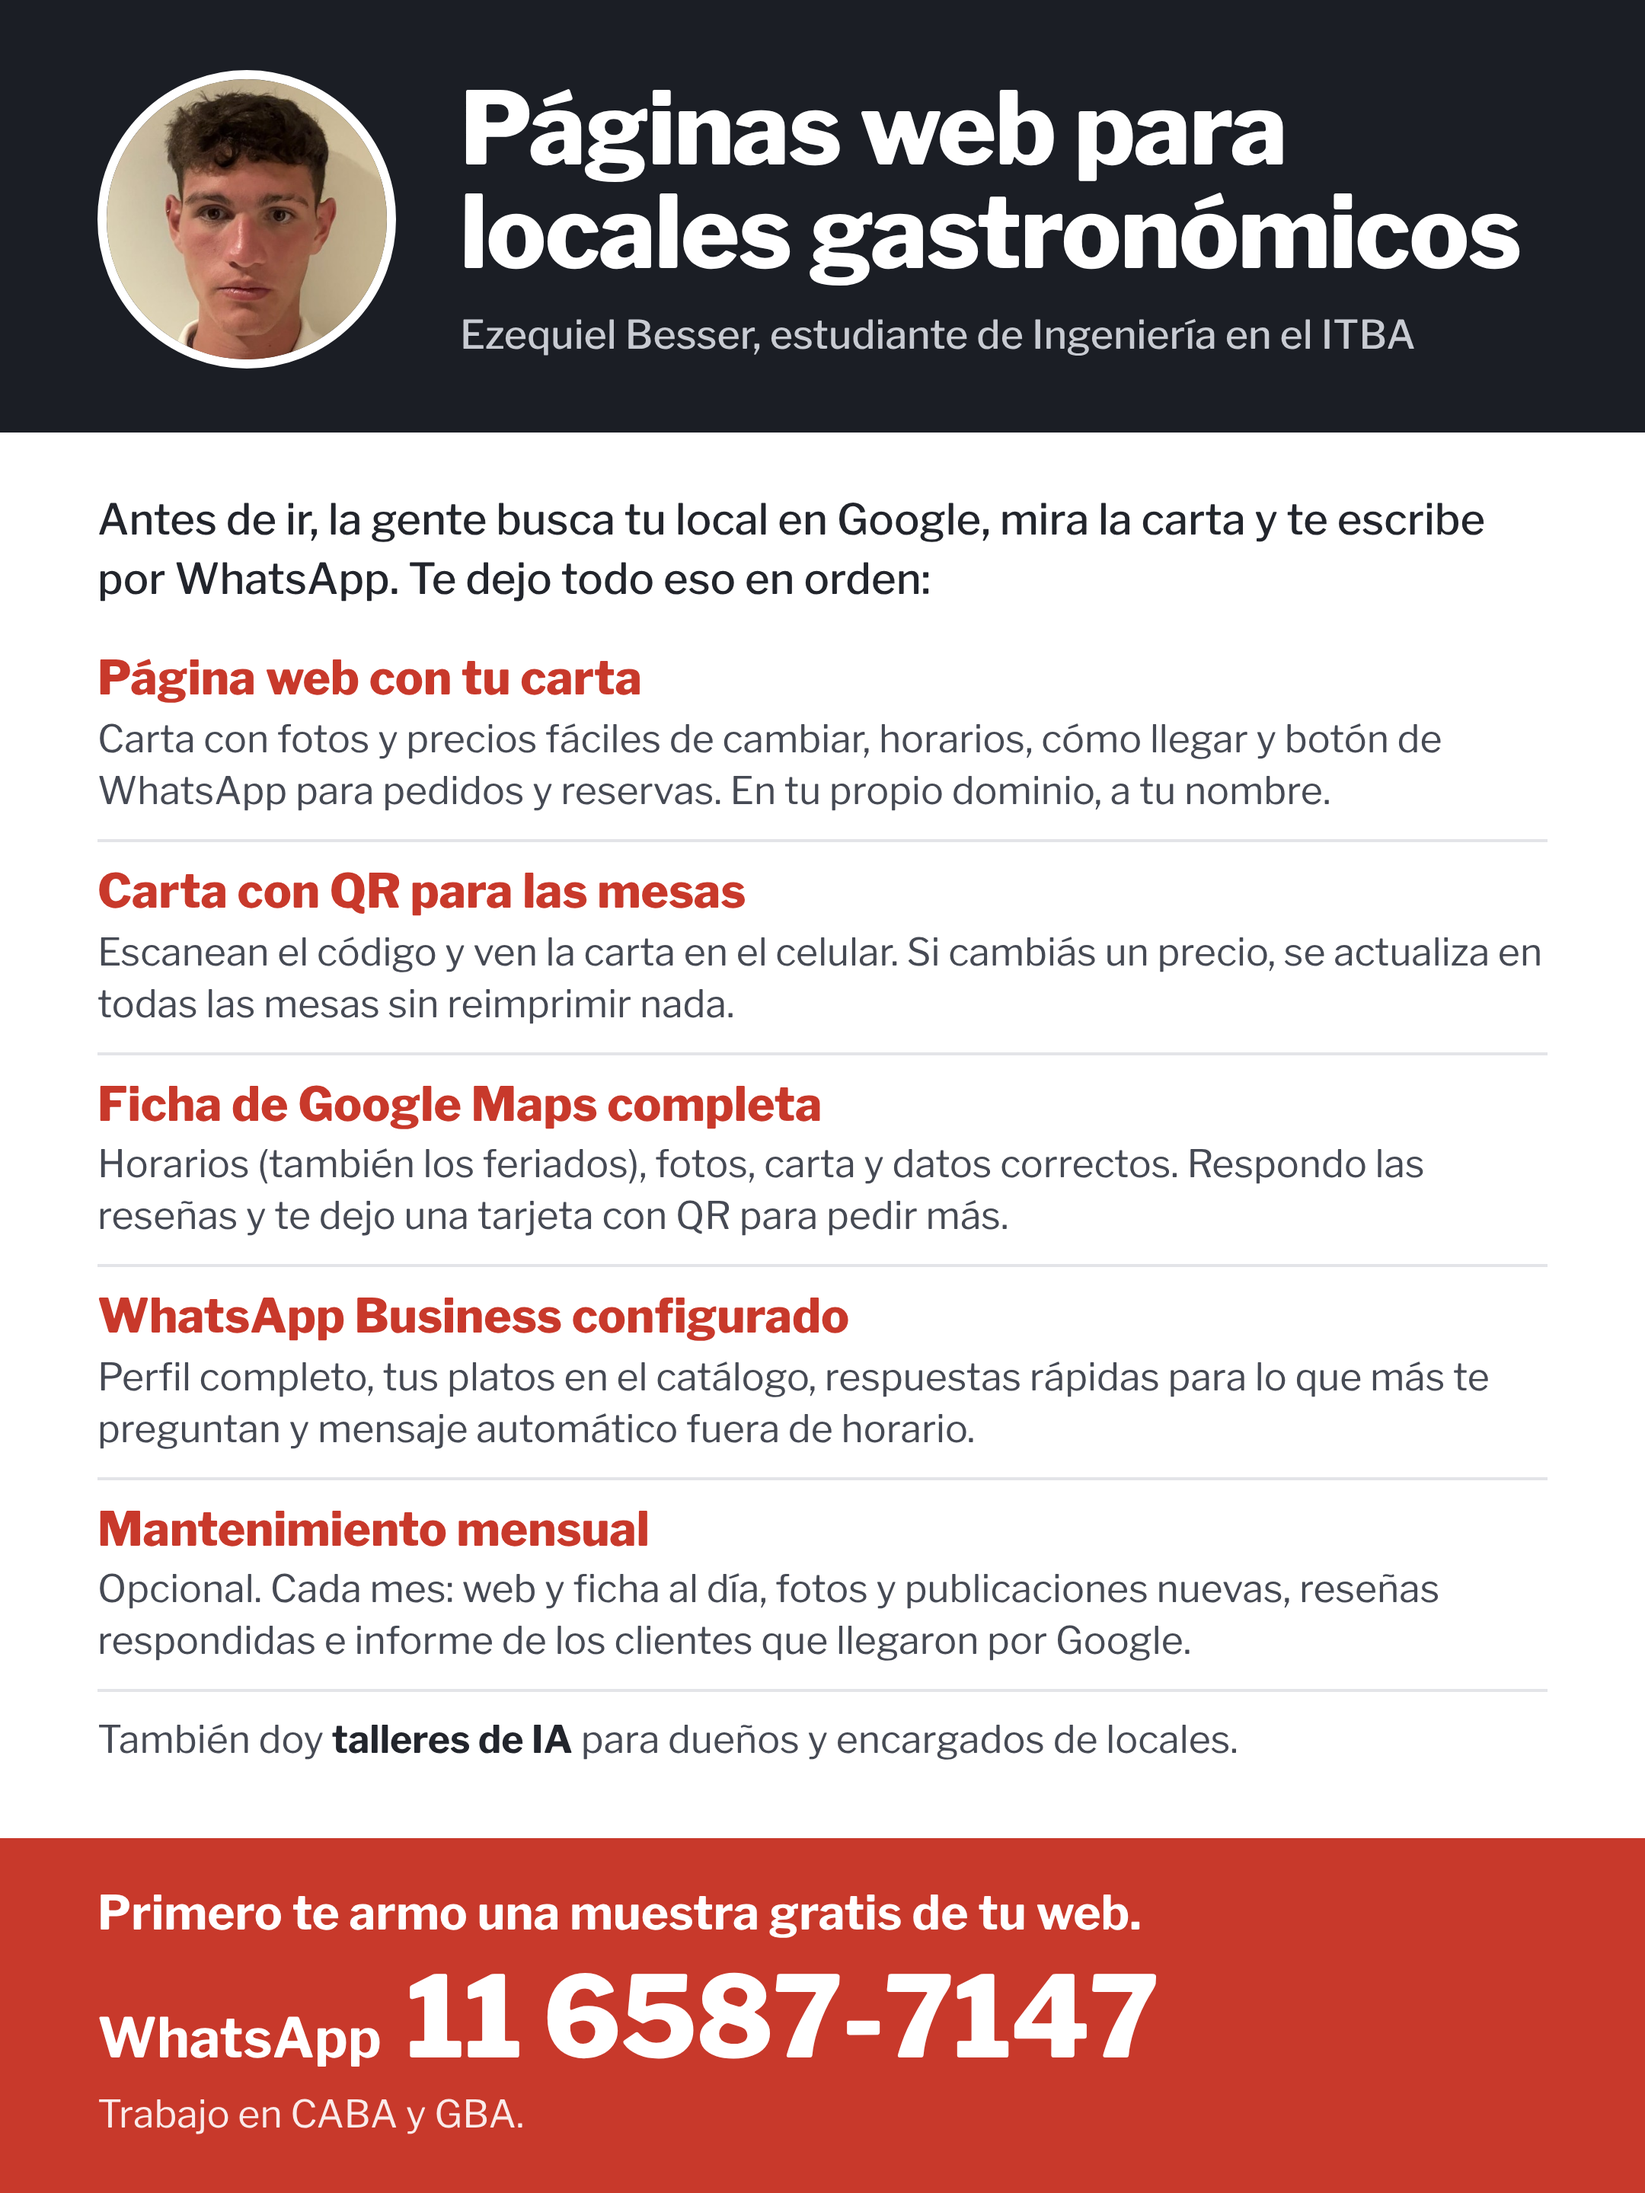
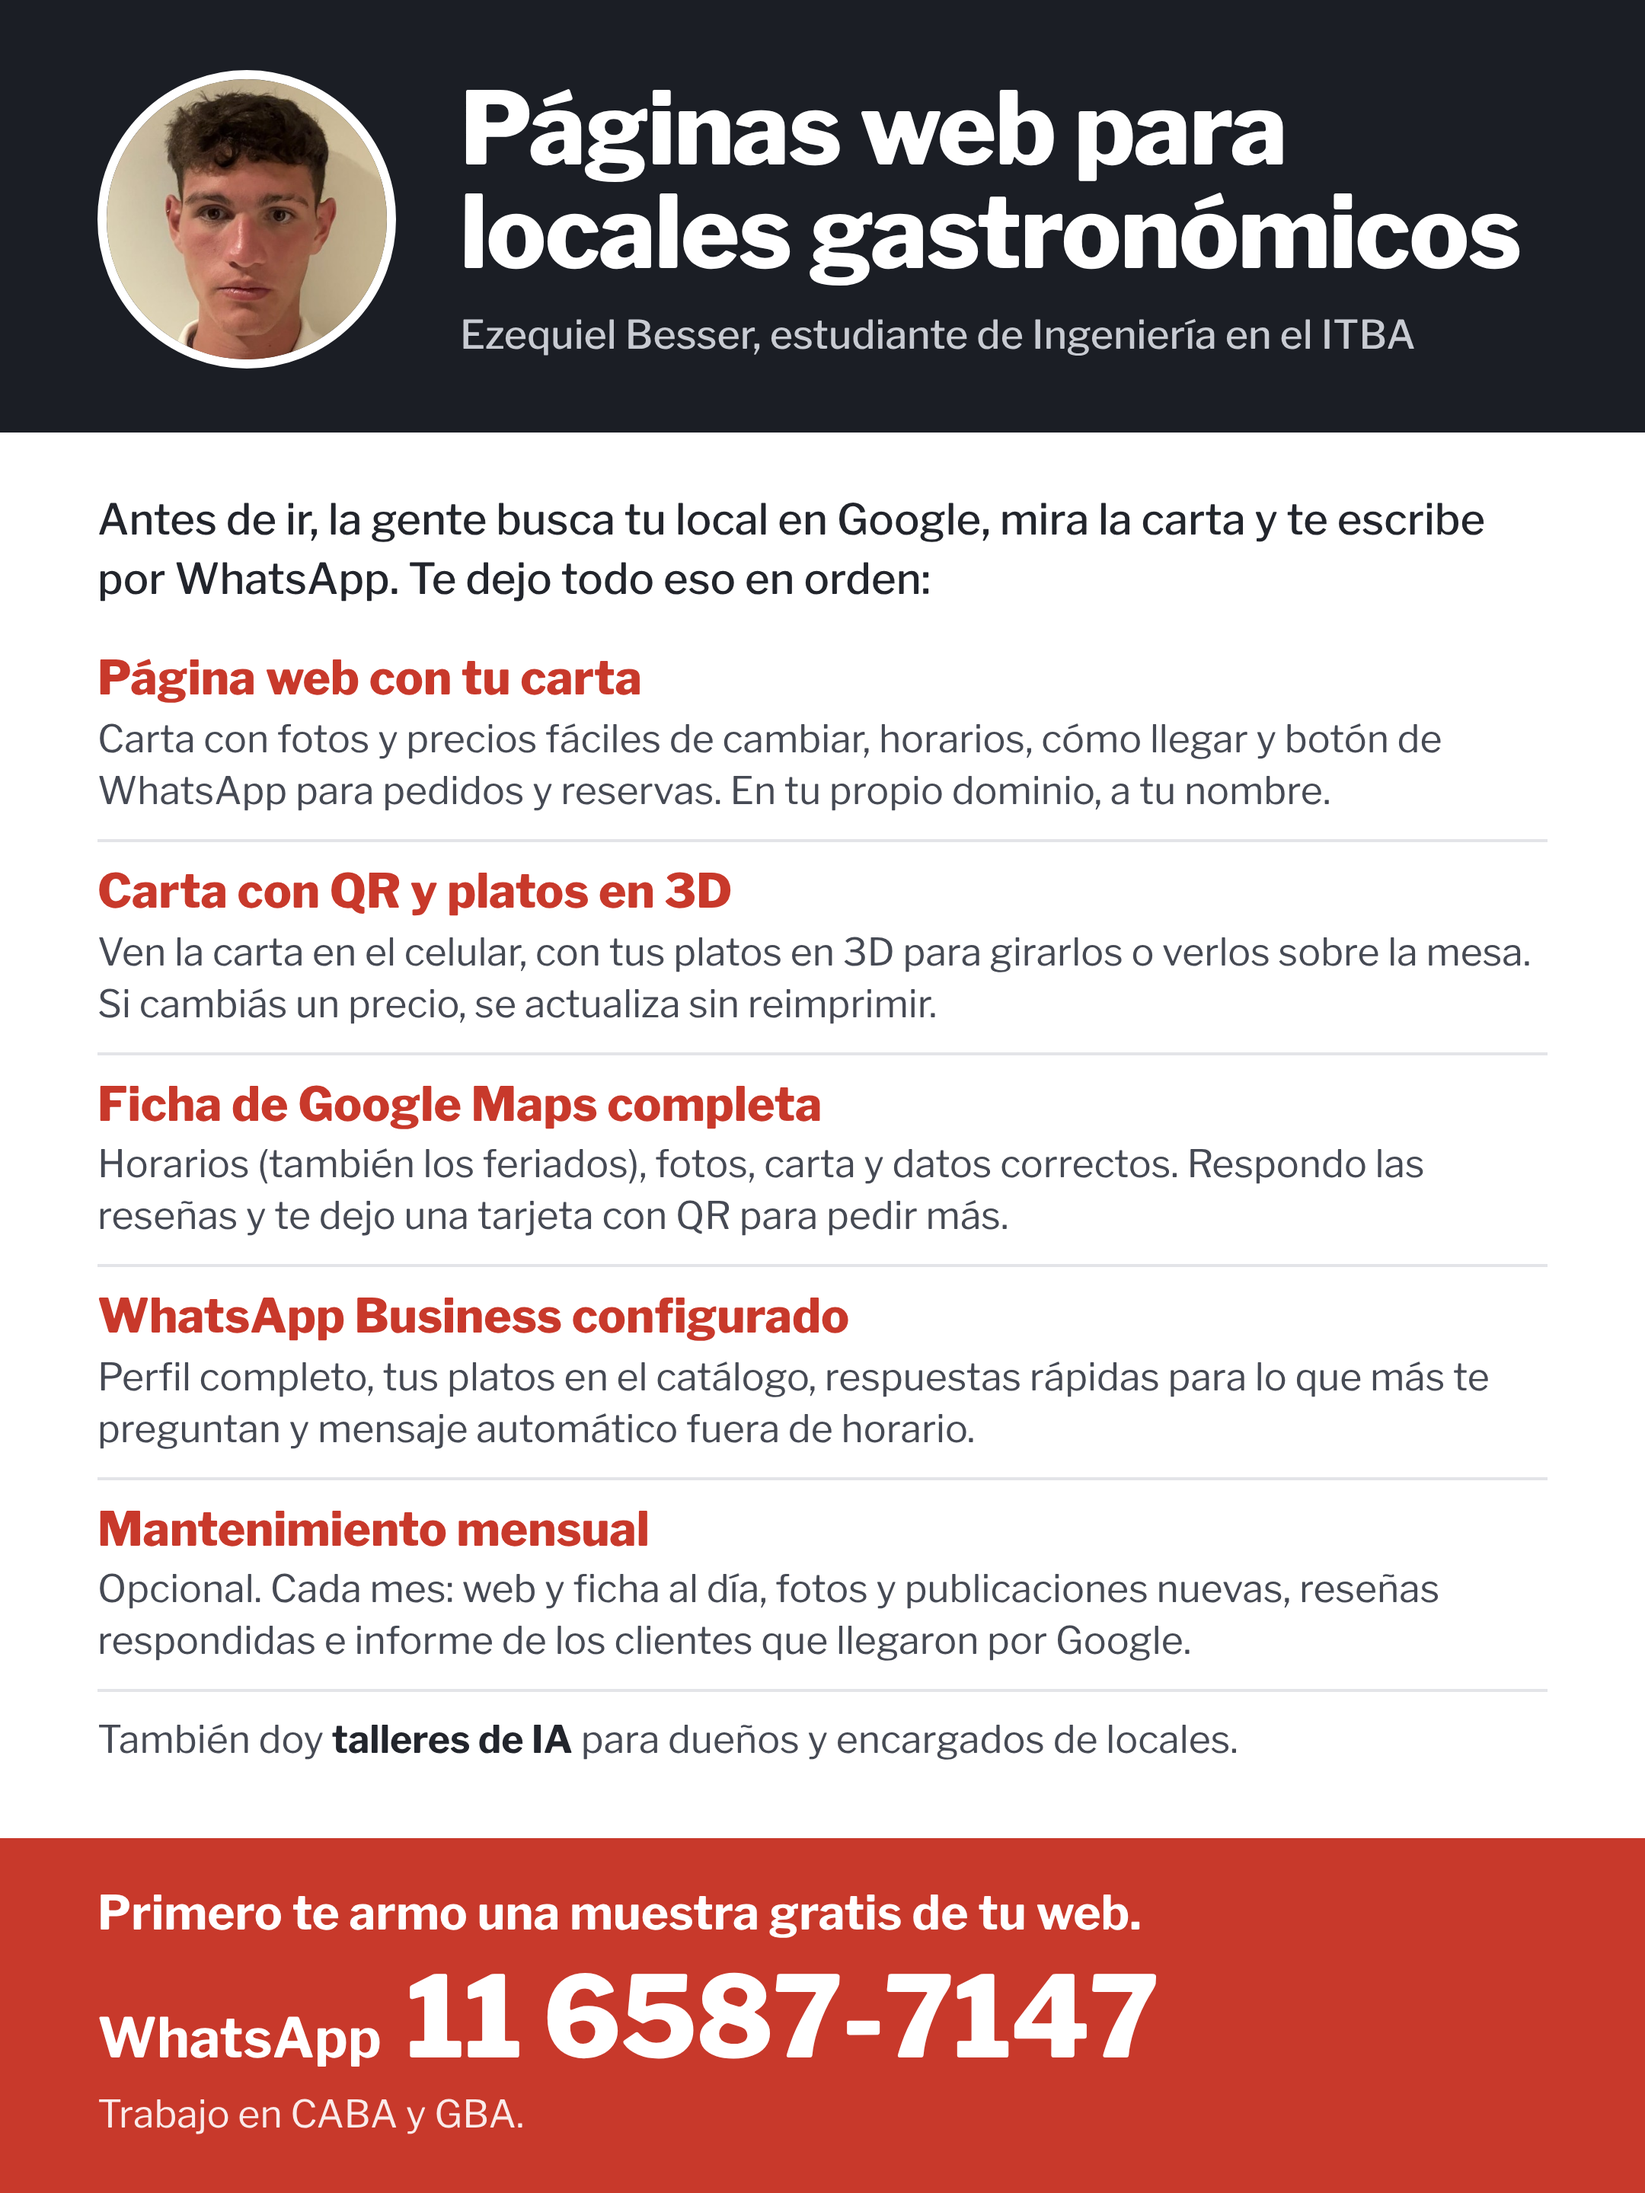
Flyer: carta con QR y platos en 3D
La carta con QR ahora ofrece los platos en 3D, para girarlos en el
celular o verlos sobre la mesa antes de pedir.

Claude-Session: https://claude.ai/code/session_01Yb4EGLZtZgQK7kZLUGyvXu

Changed region(s): [[0.062, 0.375, 0.9306, 0.4688]]

diff --git a/flyer/index.html b/flyer/index.html
@@ -4,7 +4,7 @@
 <meta charset="UTF-8">
 <meta name="viewport" content="width=device-width, initial-scale=1.0">
 <title>Ezequiel Besser · Páginas web para locales gastronómicos</title>
-<meta name="description" content="Página web con la carta, carta con QR para las mesas, ficha de Google Maps, WhatsApp Business y mantenimiento mensual para locales gastronómicos de CABA y GBA. La muestra es gratis.">
+<meta name="description" content="Página web con la carta, carta con QR y platos en 3D, ficha de Google Maps, WhatsApp Business y mantenimiento mensual para locales gastronómicos de CABA y GBA. La muestra es gratis.">
 <meta property="og:title" content="Páginas web para locales gastronómicos · Ezequiel Besser">
 <meta property="og:description" content="La carta, Google Maps y el WhatsApp de tu local, en orden. Primero te armo una muestra gratis.">
 <meta property="og:image" content="https://ezebesserr.github.io/Ezequiel-Besser-repositorio-1/flyer/og.jpg">
@@ -69,8 +69,8 @@
         <p>Carta con fotos y precios fáciles de cambiar, horarios, cómo llegar y botón de WhatsApp para pedidos y reservas. En tu propio dominio, a tu nombre.</p>
       </li>
       <li>
-        <h2>Carta con QR para las mesas</h2>
-        <p>Escanean el código y ven la carta en el celular. Si cambiás un precio, se actualiza en todas las mesas sin reimprimir nada.</p>
+        <h2>Carta con QR y platos en 3D</h2>
+        <p>Ven la carta en el celular, con tus platos en 3D para girarlos o verlos sobre la mesa. Si cambiás un precio, se actualiza sin reimprimir.</p>
       </li>
       <li>
         <h2>Ficha de Google Maps completa</h2>
